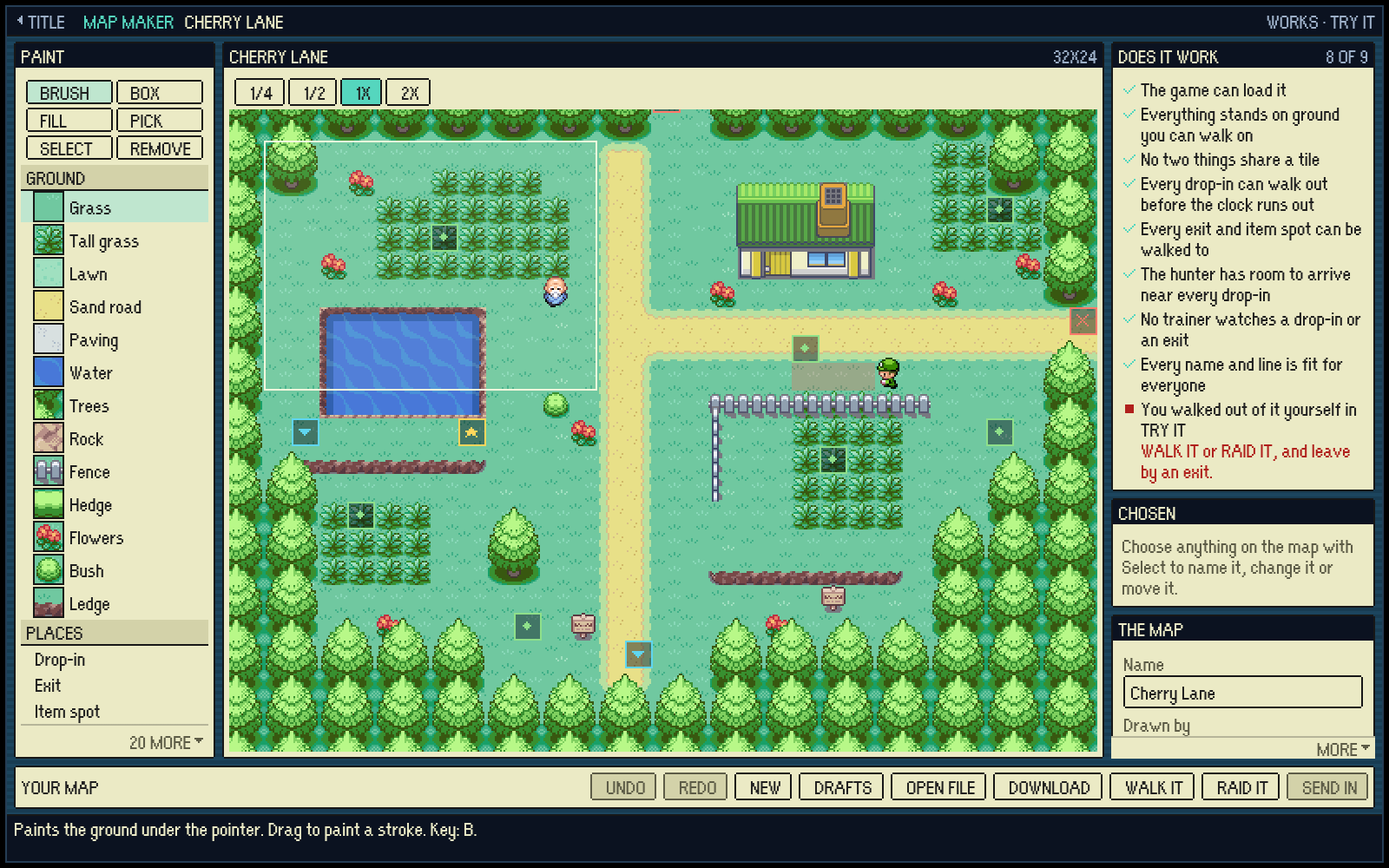
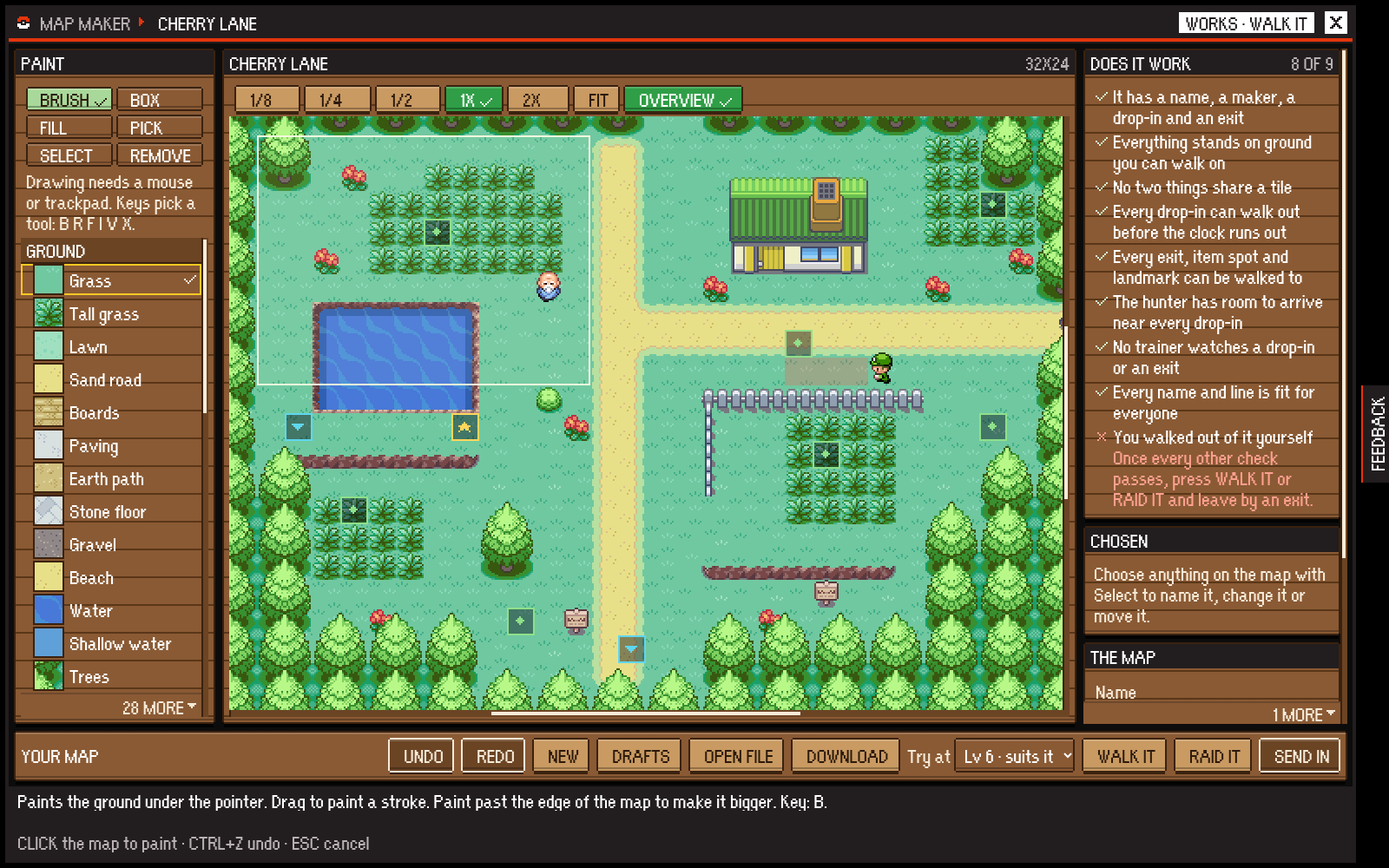
The map maker and the PLAYTEST BOARD stand on the wood floor (#1024)
The map maker was the whitest screen left: three sheets and a bar, 41%
of the picture plain white, colour 18. It is 2% and 49. The explorer
run's PLAYTEST BOARD was a sheet beside the yard, 27% white; it is 1%.

- MapMakerScene and PlaytestBoardOverlay are made with `wood-floor`.
- What a check found wrong was said in the page's red, which is dark on
  dark on wood. It is the light red a title strip's warning is.
- The tool in hand is a chip washed green: lettered in the plate's ink.
- The front page's picture of the map maker is retaken.

Not fixed, and older than this: at 800x600 the maker's map is left a
sliver, and makerFixes50.mjs fails one of its fourteen checks on main
and here alike (docs/screens/wood-floor/README.md).

diff --git a/src/style.test.ts b/src/style.test.ts
@@ -977,6 +977,16 @@ describe('the last white screens on the wood floor', () => {
     expect(body('.pixel-ui.wood-floor .px-body .starter-card:is(.is-selected, :hover)')).toContain('--ink: var(--raised-ink);');
   });
 
+  it('makes the map maker and the PLAYTEST BOARD on it, and says what is wrong in a red that reads on boards', async () => {
+    expect(await readFile(new URL('./game/scenes/MapMakerScene.ts', import.meta.url), 'utf8')).toContain("'map-maker pixel-ui wood-floor'");
+    expect(await readFile(new URL('./game/dev/PlaytestBoardOverlay.ts', import.meta.url), 'utf8')).toContain("'playtest-board favour-menu side-panel pixel-ui wood-floor'");
+    // The page's red is dark on dark there: a fault is the light red of a title strip's warning.
+    expect(body('.pixel-ui.wood-floor .px-body :is(.maker-check small, .px-row.maker-fault, .maker-fault-text)')).toContain('color: #ffa090;');
+    expect(body(':where(.pixel-ui) .px-heading .px-tag-risk')).toContain('color: #ffa090;');
+    // The tool in hand is a chip washed green: lettered in the plate's ink.
+    expect(body('.pixel-ui.wood-floor .px-body .px-chip:is(.maker-tool, .maker-area).is-selected')).toContain('--ink: var(--raised-ink);');
+  });
+
   it('makes the move chooser on it wherever it opens, beside a raid or over the chest', async () => {
     const chooser = await readFile(new URL('./game/ui/MoveChooserOverlay.ts', import.meta.url), 'utf8');
     expect(chooser).toContain("`move-chooser-menu${view.beside ? ' side-panel' : ''} pixel-ui wood-floor`");

diff --git a/src/style.css b/src/style.css
@@ -7480,6 +7480,26 @@ body.touch-play .feedback-tab {
   --ink-soft: var(--raised-ink-soft);
   color: var(--ink);
 }
+/* The map maker: the tool and the place in hand are chips washed green, so
+   lettered in the plate's ink; and what a check found wrong is said on the
+   boards themselves, in the light red a title strip's warning is (the page's
+   red is dark on dark there, and the floor's own red ink too pale to read as
+   one). A fault's tile is a raised chip, and keeps the page's. */
+.pixel-ui.wood-floor .px-body .px-chip:is(.maker-tool, .maker-area).is-selected {
+  --ink: var(--raised-ink);
+  --ink-soft: var(--raised-ink-soft);
+  color: var(--ink);
+}
+.pixel-ui.wood-floor .px-body :is(.maker-check small, .px-row.maker-fault, .maker-fault-text) {
+  color: #ffa090;
+}
+.pixel-ui.wood-floor .px-body .maker-check.is-failed .maker-check-mark {
+  background: #ffa090;
+}
+/* Under the cursor a fault is a plate of paper again, and said in the page's red. */
+.pixel-ui.wood-floor .px-body .px-row.maker-fault:focus {
+  color: var(--red);
+}
 /* A part there is enough of is a tag washed green, and so a plate too. */
 .pixel-ui.wood-floor .px-body :is(.part-tag, .workshop-cost):not(.is-short) {
   color: var(--raised-ink);

diff --git a/src/game/scenes/MapMakerScene.ts b/src/game/scenes/MapMakerScene.ts
@@ -470,7 +470,7 @@ export class MapMakerScene extends Phaser.Scene {
     this.stopEdgeScroll();
     this.panel = 'map';
     this.painter = new MapPainter();
-    this.overlay = new MenuOverlay(this, 'map-maker pixel-ui', (event) => this.handleKey(event));
+    this.overlay = new MenuOverlay(this, 'map-maker pixel-ui wood-floor', (event) => this.handleKey(event));
     // Backspace takes the chosen thing off the map here, as Delete does; it is
     // BACK on every other screen (`asOverlayEvent`).
     this.overlay.ownKeys = new Set(['Backspace']);

diff --git a/src/game/dev/PlaytestBoardOverlay.ts b/src/game/dev/PlaytestBoardOverlay.ts
@@ -34,7 +34,7 @@ export function openPlaytestBoard(
       onAction(action);
     }
   };
-  const overlay: MenuOverlay = new MenuOverlay(scene, 'playtest-board favour-menu side-panel pixel-ui', (event) => {
+  const overlay: MenuOverlay = new MenuOverlay(scene, 'playtest-board favour-menu side-panel pixel-ui wood-floor', (event) => {
     if (isOverlayDismissKey(event)) {
       event.preventDefault();
       close();

diff --git a/docs/agents/ui-and-screens.md b/docs/agents/ui-and-screens.md
@@ -35,7 +35,7 @@ Moved out of `AGENTS.md` on 9 Nov 2026 so that file stays small; nothing here wa
 - **Every screen keeps one keys line that never goes** (the navigation audit, 25 Nov 2026, rule 9). `pixelScreen`'s help bar is three lines: the help for the control under the cursor (or the pointer) on the top two, and `hints` on the bottom one (`.px-keys`, `data-keys`), which no control's help replaces. A note about the screen as a whole that is not a key - what becomes of a raid's result - is `helpDefault`, shown on the help line while the control has nothing of its own to say. Before, the help took the keys line's place from the first frame and every hall panel hid its keys. A hall panel's keys are `HubScene.hints`; the rack names its own (Left and Right are the counts', Tab crosses to the pack). The keys lines speak one set of words: `ARROWS move` (or `ARROWS read` where nothing is chosen), the panel's OK word and what it does (`ENTER play`), the screen's own letters, then `ESC back` - never `ESC leaves`, `ESC close`, `O or ESC back` or `X close`, and never where back goes. A panel's OK word is ENTER, as its help lines say; a screen being typed in says ENTER too, since SPACE types a space there.
 - **Tab hops between the areas of a screen and never leaves the panel** (the navigation audit, 25 Nov 2026, rule 10). `MenuOverlay.moveCursor('Tab')` first crosses from a row into the pane it shows (`detailStepIndex`; out of the pane Tab goes on and Shift+Tab goes back to the row, because crossing back and forth never left a list with a pane), and otherwise goes to the next area - each outermost framed window that is not itself a control, the bar under them, the header - with Shift+Tab going back, landing where the cursor last was in that area (`areaHopIndex` in `ui/menuFocus.ts`). It always takes the key, so the browser's own Tab never walks the cursor out into the page; on a screen of one area it steps to the next control round the panel. Tab out of a text field is handed to the screen too (`overlayKeyboard.ts`, the one key a field does not keep), which is what keeps YOUR TEAM's FIND box from dropping the highlight off the panel. THE ARMOURY RACK used it to reach its PACK side; the rack opens YOUR THINGS now (`docs/screens/pack-flow/`). A screen that handles Tab itself (the boutique) is asked first, as before.
 - **Every menu and pop-up is the round-3 look, "a Poke Ball, opened": five colours, one job each, and no navy, blue or cream anywhere** (the captain, 25 Nov 2026: "It must be the new way of doing it ... Do not keep any of the old menu style"; the mock-ups and why are `docs/screens/menu-look/`). Ink and white are everything else (words, paper, lines, strips); **red is "can be lost"** (the raid pack, a wipe, the cursor's arrow) with one named exception, the title strip's seam; **gold is the chosen thing and prices** (the row under the cursor is gold's wash, a focused card is outlined in gold two pixels deep); **green is safe, ready, go** (the main button, the locker, healing). A Pokemon type is an ink chip with a small square of FireRed's own colour (`.px-type`, `--type`), so a type never competes with the five. `src/game/ui/uiPalette.ts` names the canvas colours by role (`UI.paper`, `UI.ink`, `UI.cursor`, `UI.pointed`...) and `uiPalette.test.ts` holds the text to WCAG AA and the stylesheet's tokens (`--paper`, `--paper-lit`, `--paper-sunk`, `--ink`, `--line`, `--red`, `--cursor`) to it. `drawFramedWindow` (in `pixelWindow.ts`) is one line of ink with clear corners round white paper; `FRAME_DEPTH` is still the inset every pop-up's words keep, and `drawPopupCursor` the red cursor with its shadow. The overworld and harbour dialogue boxes, `ChoicePrompt`, the phrase list and the battle are drawn in it; the harbour's box is the raid's width (`BASE_STAGE_WIDTH - 16`), because at 232 it held 38 letters a row and Nurse Joy's hello was ten presses cut mid-sentence. `ChoicePrompt` puts the answers in a window standing on the right end of the question's box, sharing its top line, one under another (or `columns` abreast, a lift's floors), every answer in full ink and the cursor the only mark, and each whole row a tap target. Anything that keeps clear of a question asks `ChoicePrompt.bounds`, which covers the answer window too. `tools/playtest/popupShots.mjs` photographs every pop-up the harbour opens (`--raid` for the raid's), and `tools/playtest/menusAudit.mjs` every menu the harbour opens. **On a DOM screen**: the title strip (`.px-title`) is ink with the red seam under it, a drawn Poke Ball before the name, the one number that matters in a white pill (`.px-title-aside`) and the X a white square that turns red under the cursor; behind a screen is the place it was opened in, dimmed (`--backdrop`, translucent, over the paused scene) rather than a pattern; a card (`.px-window`) is white in one line of ink with clear corners and a hard pixel shadow under it; its heading strip is ink, green on a `px-tone-care`/`px-tone-secure` card and red on a `px-tone-risk` one - the colour says what kind of card it is, never a tint over the paper; a button stands up on a pixel of ink and is green with white letters when it is the one that goes. The whole screen carries one ink line round it (`.px-screen::after`), painted over its own edge so it costs a column no room. **Over the map**, anything that reads as interface - a chip, a label, a name tag, the touch pad's key chips - is the same ink and white (`WINDOW_PAPER` is white; the harbour's fixture and landmark labels and the arena's name plates are ink); only what is painted in the world (a sign's wood, the FireRed controls of the pad) keeps its own colours. A screen with nothing to choose yet starts with no cursor rather than on its X (`HubScene`'s `refocus`).
-- **White is a plate, never the floor: a screen stands on the wood floor** (the captain, 26 Nov 2026, of the menus "that just have that bright white background": "something's just not quite right"; of the study's picks, "Go with all of your decisions"; and of the two mock-ups, "I actually prefer the kind of brown ... the woody colour, over the black. The army aesthetic of Tarkov shouldn't be used - it should all be Pokémon"; `docs/screens/wood-floor/` is the study, each screen's before and after and its colour score). The world has no white ground, so a screen that was a sheet of white paper was the brightest, greyest thing in the game - at night nearly three times as bright as the harbour behind it. A screen opts in with `wood-floor` beside `pixel-ui` where its `MenuOverlay` is made (`ThingsScene` and `ChestPokemonScene` were the first: YOUR THINGS, THE CHEST and everything they open; the three Game Corner cabinets and the promenade's games are on it with their line-ups, `docs/agents/harbour.md`; Bill's Cottage, Brock's Workshop, the Day-Care and the Trader are on it by view (`WOOD_FLOOR_VIEWS` in `HubScene`, toggled in `render`, because the hub's one overlay shows every keeper's screen, and Oak's own are not on it); YOUR TEAM (`TeamScene`, the hall's bench with it), the favours and the knock at a door (`FavourListOverlay`, `KnockOverlay`), the Battle Arena's counter, the feedback panel and the console's games were the last (a field is one plank there, and lit while it is typed in, so lettered in the plate's ink) and HELP and SETTINGS by `ControlsScene` (SETTINGS in the world's pixel as well: on paper there its one sheet was a bigger share of the screen than it had been in the finer one); the raid's own panels came after, found by photographing what `menusAudit.mjs` never opens (the pack and a disc read in it, the party, the field guide, and the move chooser wherever it opens: `BagScene`, `PartyScene`, `ObjectivesScene`, `MoveChooserOverlay`) - a party slot under the cursor, the leader's or one picked up and the pack's tile under the cursor are lettered in the plate's ink, and the move being learned, a move marked to forget and a bar turned green to ask are whole plates of the page's palette, because they carry coloured tags (`--safe-ink` and `--red-ink` are pale on wood); and the two naming screens, the swap of a last Pokémon (`'reselect'` in `WOOD_FLOOR_VIEWS`) and the owner's stats page, where **a screen with no place behind it stands its boards against a wall of darker boards, never on black** (`.px-body:is(.starter-shell, .stats-layout, .stats-message-layout)`: the captain prefers brown wood to black) - which is where it was learnt that **a block of ink lettered in white inside a body is `--bar`/`--bar-text` or `--plate-ink`/`--plate`, and anything written on gold is `--plate-ink`**: the shop card's head, count and key, HELP's key caps, Bill's rank and a price were `--ink` on `--paper`, and on wood came out white lettered in brown; and that a question asked before something is spent (`.px-arming`, washed red) is a plate whose warning is `--wash-red-ink`, the page's red being under 3:1 on that wash; `BoutiqueScene` is THE HARBOUR BOUTIQUE and the wardrobe, where the shelves are boards, a card on one a board of its own, the glass a plate of the lighter wood in its gold frame, and a lit card, a worn honour and a HAVE tag lettered in the plate's ink - and a key's cap (`.px-keycap`) and a strip drawn inside a body (`.bq-slot-head`) are `--plate-ink`/`--plate` and `--bar`/`--bar-text`, never `--ink`/`--paper`, which that floor remaps; the raid's result is on it whole - the moment, the full report, a lost raid's account and a raid settled elsewhere, `ExtractionScene.dressForWhatIsShown`. A tile washed by what became of its thing (`.result-tile`) is a plate lettered in the plate's ink, tick and all, and the bar a screen's way on stands on (`.confirm-bar`) is one plank, because a seam every sixteen pixels ran through the feet of its title), and `.pixel-ui.wood-floor .px-body` in `src/style.css` remaps what a body is drawn in: `--paper` is a board of warm brown wood (a card is boards, a seam every sixteen pixels: `--grain` on `.px-window`, reset on a control and on a plate), `--paper-sunk` an empty square, `--paper-raised` the plate of lighter wood a thing or a button stands on, `--paper-lit` and the washes light plates. The title strip and the help strip are outside the body and unchanged. **Wood is a middle tone, so only white and the palest inks read on a board and only dark ones on a raised plate**: `--ink`/`--ink-soft` and the coloured inks are near-white on the boards, whatever stands on a raised plate reads `--raised-ink` (one rule lists those parts: add a new raised part to it, and give it `color: var(--ink)` of its own, because `color` is inherited already worked out), and **words that are more than a label go on a plate of paper**: `px-plate` on a window (the description bar, a question) gives it the page's whole palette back, because the rule that names `:root` names it - and names whatever is lit or washed with words on it (the row under the cursor, a chosen row), so a lit row is FireRed's light bar with ink on it. **Every rule goes on reading `--paper` and `--ink` and is right on either floor**; what must stay white or ink whatever the floor says so with `--plate`/`--plate-ink` (a count's pill, a key's cap on a green button), the strips' `--bar`/`--bar-text`, or a literal white on a filled button. **Three rules of light go with the floor**, because a flat board is a flat sheet in another colour: a card has a lit lip and a dark foot (`--lip`, `--foot`, laid over whatever it is filled with, so a green button gets them too), an empty square is sunk and a filled one raised (`--sunk`, `--raised`, box-shadows that are nothing on paper), and a shadow is drawn at full strength (`--shade`). **A screen that is a thing is drawn as that thing, on the same rules**: THE POKéDEX is a red machine with a screen of green glass (`dex-floor`, its tokens at the head of the Pokédex's rules: the glass is its `--paper`, lined like a screen by `--grain`; `--casing` holds the count, the grid and a page; never met is unlit glass, met is lit low with a dark shape, owned is lit; a Pokémon's picture stands on a lit panel, `.dex-figures`, so one only met can be a silhouette). The rules of the floor that are not about a colour - a raised plate's ink, the paper plates, a disabled key - are written once for `:is(.wood-floor, .dex-floor)`; a new material adds its class there and its own tokens. **Nothing on a menu looks military**: no stencils, olive drab, crates as a style or tactical read-outs - the extraction is the borrowed mechanic, the look is a FireRed world's. `uiPalette.test.ts` holds every ink to WCAG AA on what it is written on and the boards to warm brown, and `tools/playtest/colourScore.mjs` scores a screenshot: the world is 27 to 35, a menu that reads as part of the game 16 or more, and the white sheets were 13 or less. The other white screens are moved over one pull request at a time; when the last is, the remap becomes the palette and the class goes.
+- **White is a plate, never the floor: a screen stands on the wood floor** (the captain, 26 Nov 2026, of the menus "that just have that bright white background": "something's just not quite right"; of the study's picks, "Go with all of your decisions"; and of the two mock-ups, "I actually prefer the kind of brown ... the woody colour, over the black. The army aesthetic of Tarkov shouldn't be used - it should all be Pokémon"; `docs/screens/wood-floor/` is the study, each screen's before and after and its colour score). The world has no white ground, so a screen that was a sheet of white paper was the brightest, greyest thing in the game - at night nearly three times as bright as the harbour behind it. A screen opts in with `wood-floor` beside `pixel-ui` where its `MenuOverlay` is made (`ThingsScene` and `ChestPokemonScene` were the first: YOUR THINGS, THE CHEST and everything they open; the three Game Corner cabinets and the promenade's games are on it with their line-ups, `docs/agents/harbour.md`; Bill's Cottage, Brock's Workshop, the Day-Care and the Trader are on it by view (`WOOD_FLOOR_VIEWS` in `HubScene`, toggled in `render`, because the hub's one overlay shows every keeper's screen, and Oak's own are not on it); YOUR TEAM (`TeamScene`, the hall's bench with it), the favours and the knock at a door (`FavourListOverlay`, `KnockOverlay`), the Battle Arena's counter, the feedback panel and the console's games were the last (a field is one plank there, and lit while it is typed in, so lettered in the plate's ink) and HELP and SETTINGS by `ControlsScene` (SETTINGS in the world's pixel as well: on paper there its one sheet was a bigger share of the screen than it had been in the finer one); the raid's own panels came after, found by photographing what `menusAudit.mjs` never opens (the pack and a disc read in it, the party, the field guide, and the move chooser wherever it opens: `BagScene`, `PartyScene`, `ObjectivesScene`, `MoveChooserOverlay`) - a party slot under the cursor, the leader's or one picked up and the pack's tile under the cursor are lettered in the plate's ink, and the move being learned, a move marked to forget and a bar turned green to ask are whole plates of the page's palette, because they carry coloured tags (`--safe-ink` and `--red-ink` are pale on wood); and the two naming screens, the swap of a last Pokémon (`'reselect'` in `WOOD_FLOOR_VIEWS`) and the owner's stats page, where **a screen with no place behind it stands its boards against a wall of darker boards, never on black** (`.px-body:is(.starter-shell, .stats-layout, .stats-message-layout)`: the captain prefers brown wood to black); and last the map maker and the explorer run's PLAYTEST BOARD, where **red words on the boards themselves are `#ffa090`, the light red of a title strip's warning** (the page's `--red` is dark on dark there and the floor's `--red-ink` too pale to read as red; a fault's tile is a raised chip and keeps the page's) - which is where it was learnt that **a block of ink lettered in white inside a body is `--bar`/`--bar-text` or `--plate-ink`/`--plate`, and anything written on gold is `--plate-ink`**: the shop card's head, count and key, HELP's key caps, Bill's rank and a price were `--ink` on `--paper`, and on wood came out white lettered in brown; and that a question asked before something is spent (`.px-arming`, washed red) is a plate whose warning is `--wash-red-ink`, the page's red being under 3:1 on that wash; `BoutiqueScene` is THE HARBOUR BOUTIQUE and the wardrobe, where the shelves are boards, a card on one a board of its own, the glass a plate of the lighter wood in its gold frame, and a lit card, a worn honour and a HAVE tag lettered in the plate's ink - and a key's cap (`.px-keycap`) and a strip drawn inside a body (`.bq-slot-head`) are `--plate-ink`/`--plate` and `--bar`/`--bar-text`, never `--ink`/`--paper`, which that floor remaps; the raid's result is on it whole - the moment, the full report, a lost raid's account and a raid settled elsewhere, `ExtractionScene.dressForWhatIsShown`. A tile washed by what became of its thing (`.result-tile`) is a plate lettered in the plate's ink, tick and all, and the bar a screen's way on stands on (`.confirm-bar`) is one plank, because a seam every sixteen pixels ran through the feet of its title), and `.pixel-ui.wood-floor .px-body` in `src/style.css` remaps what a body is drawn in: `--paper` is a board of warm brown wood (a card is boards, a seam every sixteen pixels: `--grain` on `.px-window`, reset on a control and on a plate), `--paper-sunk` an empty square, `--paper-raised` the plate of lighter wood a thing or a button stands on, `--paper-lit` and the washes light plates. The title strip and the help strip are outside the body and unchanged. **Wood is a middle tone, so only white and the palest inks read on a board and only dark ones on a raised plate**: `--ink`/`--ink-soft` and the coloured inks are near-white on the boards, whatever stands on a raised plate reads `--raised-ink` (one rule lists those parts: add a new raised part to it, and give it `color: var(--ink)` of its own, because `color` is inherited already worked out), and **words that are more than a label go on a plate of paper**: `px-plate` on a window (the description bar, a question) gives it the page's whole palette back, because the rule that names `:root` names it - and names whatever is lit or washed with words on it (the row under the cursor, a chosen row), so a lit row is FireRed's light bar with ink on it. **Every rule goes on reading `--paper` and `--ink` and is right on either floor**; what must stay white or ink whatever the floor says so with `--plate`/`--plate-ink` (a count's pill, a key's cap on a green button), the strips' `--bar`/`--bar-text`, or a literal white on a filled button. **Three rules of light go with the floor**, because a flat board is a flat sheet in another colour: a card has a lit lip and a dark foot (`--lip`, `--foot`, laid over whatever it is filled with, so a green button gets them too), an empty square is sunk and a filled one raised (`--sunk`, `--raised`, box-shadows that are nothing on paper), and a shadow is drawn at full strength (`--shade`). **A screen that is a thing is drawn as that thing, on the same rules**: THE POKéDEX is a red machine with a screen of green glass (`dex-floor`, its tokens at the head of the Pokédex's rules: the glass is its `--paper`, lined like a screen by `--grain`; `--casing` holds the count, the grid and a page; never met is unlit glass, met is lit low with a dark shape, owned is lit; a Pokémon's picture stands on a lit panel, `.dex-figures`, so one only met can be a silhouette). The rules of the floor that are not about a colour - a raised plate's ink, the paper plates, a disabled key - are written once for `:is(.wood-floor, .dex-floor)`; a new material adds its class there and its own tokens. **Nothing on a menu looks military**: no stencils, olive drab, crates as a style or tactical read-outs - the extraction is the borrowed mechanic, the look is a FireRed world's. `uiPalette.test.ts` holds every ink to WCAG AA on what it is written on and the boards to warm brown, and `tools/playtest/colourScore.mjs` scores a screenshot: the world is 27 to 35, a menu that reads as part of the game 16 or more, and the white sheets were 13 or less. The other white screens are moved over one pull request at a time; when the last is, the remap becomes the palette and the class goes.
 - **A screen arrives and leaves with a short move, played once, never from the stylesheet** (the captain, 25 Nov 2026: "show with animation, not text"; the menu study's fifth cause - one frame was the harbour and the next the whole menu; `docs/screens/wood-floor/`). `ui/menuMotion.ts` is all of it: a whole screen takes about a fifth of a second to arrive - the place dims, the title strip drops in, the cards (`.px-body`'s children) step up one after another, the help strip rises - and a tenth to leave; a side panel (the raid's pack, party and Oak) is the same screen in a column and moves the same way, and THE RAID ARENA's panels keep their own rule; **every move is stepped, nothing eases**, and reduced motion plays none. `MenuOverlay` plays the arrival on what a screen's *first* markup holds (a `MutationObserver`, then gone), because a screen is redrawn by replacing its markup and a rule in the stylesheet that moved a card would play again on every redraw - so **never animate a card's arrival in CSS**. A screen that comes straight after another - a tab, a question over a screen, one opened while another is still leaving - only steps its cards up, opaque, or the place would show for a step between two screens that both cover it. Leaving, a screen is **out of the menu layer at once**: `playLeaving` moves its root into a layer of its own under `#screens` (`.screens-leaving`, the menu layer's inline box copied, `inert`), marks it `data-leaving`, and removes it when the move ends, so `#screens > .menu-overlay` is still the one question "is a screen up?" and answers no from the moment it closes; anything that asks for `.menu-overlay` anywhere in the page (`dev/testDescribe.ts`) skips `[data-leaving]`. `destroy()` is safe to call twice. **In test mode a screen arrives and leaves at once** unless the address also says `menumotion=1` (`screensMove`): the moves run on the wall clock, which a stepped loop does not turn, and a driver that measures a screen in the instant it opens found a card a third of the way up; `tools/playtest/menuMotion.mjs` is the driver that asks, checks every move and records it. `arrivalPlan` is the timing as data, and `menuMotion.test.ts` holds it to a fifth of a second and to whole steps.
 - **A screen with few things on it is drawn in the world's own pixel: `px-world`** (the menu study's third cause, `docs/screens/wood-floor/`: the world is 3x and the menus 2x at 1280x800, 4x and 2x at 1920x1080, so a menu's lines and letters were two thirds the size of the world's, or half; the captain's pick, 26 Nov 2026: at the world's size, "except long lists"). `worldUnitFor` in `display/menuStage.ts` is the rule - the canvas's zoom, or the menus' own pixel wherever the layer could not hold the smallest screen at it (a phone, a window the touch pad shares) or the zoom is not whole - and `applyMenuStage` gives it to the menu layer as `--world-px` beside `--px` (`stageScaler` hands it the canvas's zoom). **`px-world` on an overlay's root, or on one window inside a screen, sets `--u` to it** and the type size with it, and everything inside goes on measuring in `--u`, so nothing else changes: a root's `data-room` and its columns are counted in its own pixel (`MenuOverlay` reads `--u` off the root), and at the world's pixel a screen has about 400x240 game pixels, which is `tight` or `short` - so **a screen that opts in must be laid out for a small room first**. SETTINGS (`ControlsScene`, toggled off for HELP, which is a list), a Pokédex page (`PokedexScene` toggles it per render: the list keeps the finer pixel) and THE CHEST's question were the first; the moment a raid that got out opens on is the fourth (`ExtractionScene.dressForWhatIsShown`, `docs/agents/raid-and-stash.md`), and the one whose help strip is as tall as what it says rather than the three lines every other screen keeps - at the world's pixel those were a fifth of the screen. **A list or a grid keeps the finer pixel**, which is what buys its rows, and a side panel does too: `fitSidePanel` counts the column in the layer's `--px`, and at the world's pixel a column wide enough for its words would cover the map it stands beside. A picture inside a screen in the finer pixel is still drawn at a multiple of that pixel, not the world's: there is no size that is whole in both.
 - Every panel in the game is one drawn frame: `src/game/ui/pixelWindow.ts` reproduces `assets/battle/hud-box.png` - a one-pixel `#171717` border with clear corners - at any size, because that texture is 32x32 and smears when stretched small. Cream fill is screen furniture (`RaidHud`), a tinted fill with a coloured border is world annotation (`src/game/ui/WorldLabel.ts`), and `DialogBox` takes `pixelWindow: true` for the same frame, and `.px-window` in `src/style.css` is its DOM twin - drawn as backgrounds so the corners stay clear without a clip. Nothing stretches a panel texture any more - the battle dialogue and the two name plates were the last, and `hud-box.png`/`dialog-plain.png` are kept for provenance but no longer loaded; `pixelWindow.test.ts` fails any scene that passes `backgroundTexture` again.

diff --git a/docs/readme/README.md b/docs/readme/README.md
@@ -22,7 +22,7 @@ number of screen pixels to the game pixel and stays sharp on a high-density disp
 | `the-bench.png` | Getting ready on the floor of the Raid Arena: the bench over the hall (800x512) | `arenaHall.mjs --window=800x512`, its `3-bench.png` |
 | `the-rim.png` | Looking down from the rim: the portal, the pit seen whole, with the card down the side (1600x1024, shown at half: an 800x512 window has no room for the portal beside the card) | `portal.mjs --window=1600x1024 --tz=Asia/Tokyo --eval=1`, its `5-looking-down-03.png` |
 | `pack.png` | The pack opened mid-raid, beside the three Potions and three Poké Balls it went out with, with a few finds put in the raid's own bag first: a crate, a roll of linen, a valve, a Super Potion, a Thunder Stone and ₽40 (800x512). Retaken when the pack went onto the wood floor: the picture before it was of a look three redraws old | `readmeShots.mjs` |
-| `map-maker.png` | The map maker with the sample map open at 1X (1600x1000) | `readmeShots.mjs --part=maker --window=1600x1000` |
+| `map-maker.png` | The map maker with the sample map open at 1X, on the wood floor (1600x1000) | `readmeShots.mjs --part=maker --window=1600x1000` |
 | `extracted.png` | A raid that got out: the stage it opens on (800x512) | `resultMoment.mjs <build dir> <out> --window=800x512`, its `job-800x512.png`: a raid on the vale ended there on the driver's own report of a job done |
 | `raid-lost.png` | A raid that was lost: its account (800x512) | `resultShots.mjs <build url> <out> --window=800x512`, its `lost.png`: the driver's own report of a raid the clock ran out on. The recipe before it played a seeded raid to its end (`raid.mjs --seed=3 ...`), and that seed no longer plays on today's vale |
 

diff --git a/docs/screens/wood-floor/README.md b/docs/screens/wood-floor/README.md
@@ -249,6 +249,26 @@ white cards on black: they stand against a wall of darker boards now.
 The stats page signed in, with its numbers and its chart of a month, was not seen: it
 needs the owner's sign-in. Its rules name only the floor's own tokens.
 
+## The map maker and the PLAYTEST BOARD
+
+The whitest screen left: three sheets and a bar, 41% of the picture plain white.
+
+| | Before | After | Colour | White |
+|---|---|---|---|---|
+| The map maker, the sample map open | ![](before/map-maker.png) | ![](after/map-maker.png) | 19 to 49 | 42% to 2% |
+| The map maker, a new map, with what is still wrong | ![](before/map-maker-new.png) | ![](after/map-maker-new.png) | 18 to 49 | 41% to 2% |
+| The explorer run's PLAYTEST BOARD | ![](before/playtest-board.png) | ![](after/playtest-board.png) | 20 to 39 | 27% to 1% |
+
+What a check found wrong was said in the page's red, which is dark on dark on wood:
+it is the light red a title strip's warning is. The tool in hand is a chip washed
+green, lettered in ink.
+
+Not fixed, and older than this: in an 800x600 window the maker's zoom chips wrap
+down their column and the map is left a sliver. And `makerFixes50.mjs` fails one of
+its fourteen checks on main and here alike ("outdoors again, no overview over a map
+a row too tall"): the overview is shown there, as its own rule says it should be for
+a map a quarter hidden.
+
 `tools/playtest/starterBalls.mjs` plays the swap. Its check there still asked for the
 pointer to move the cursor, from before the pointer only previewed; it asks for what
 the game does now, and passes.
